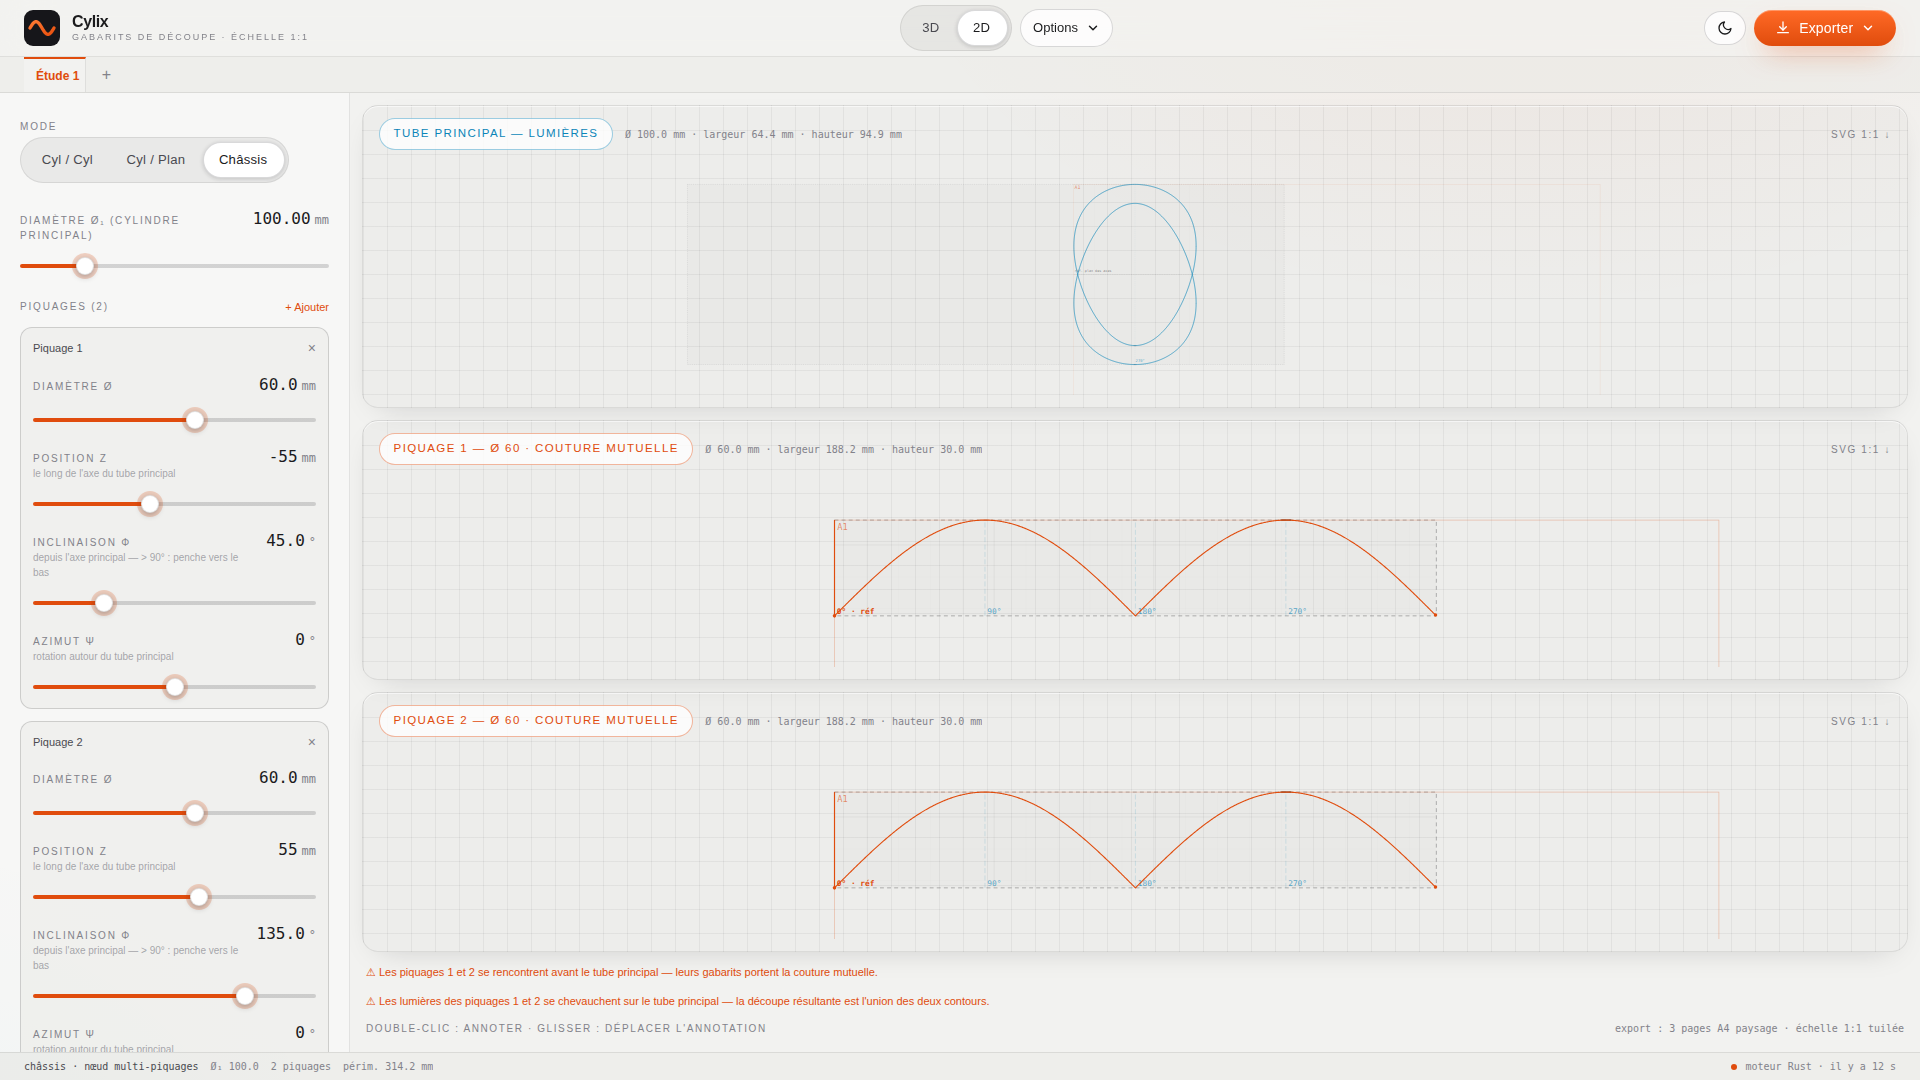
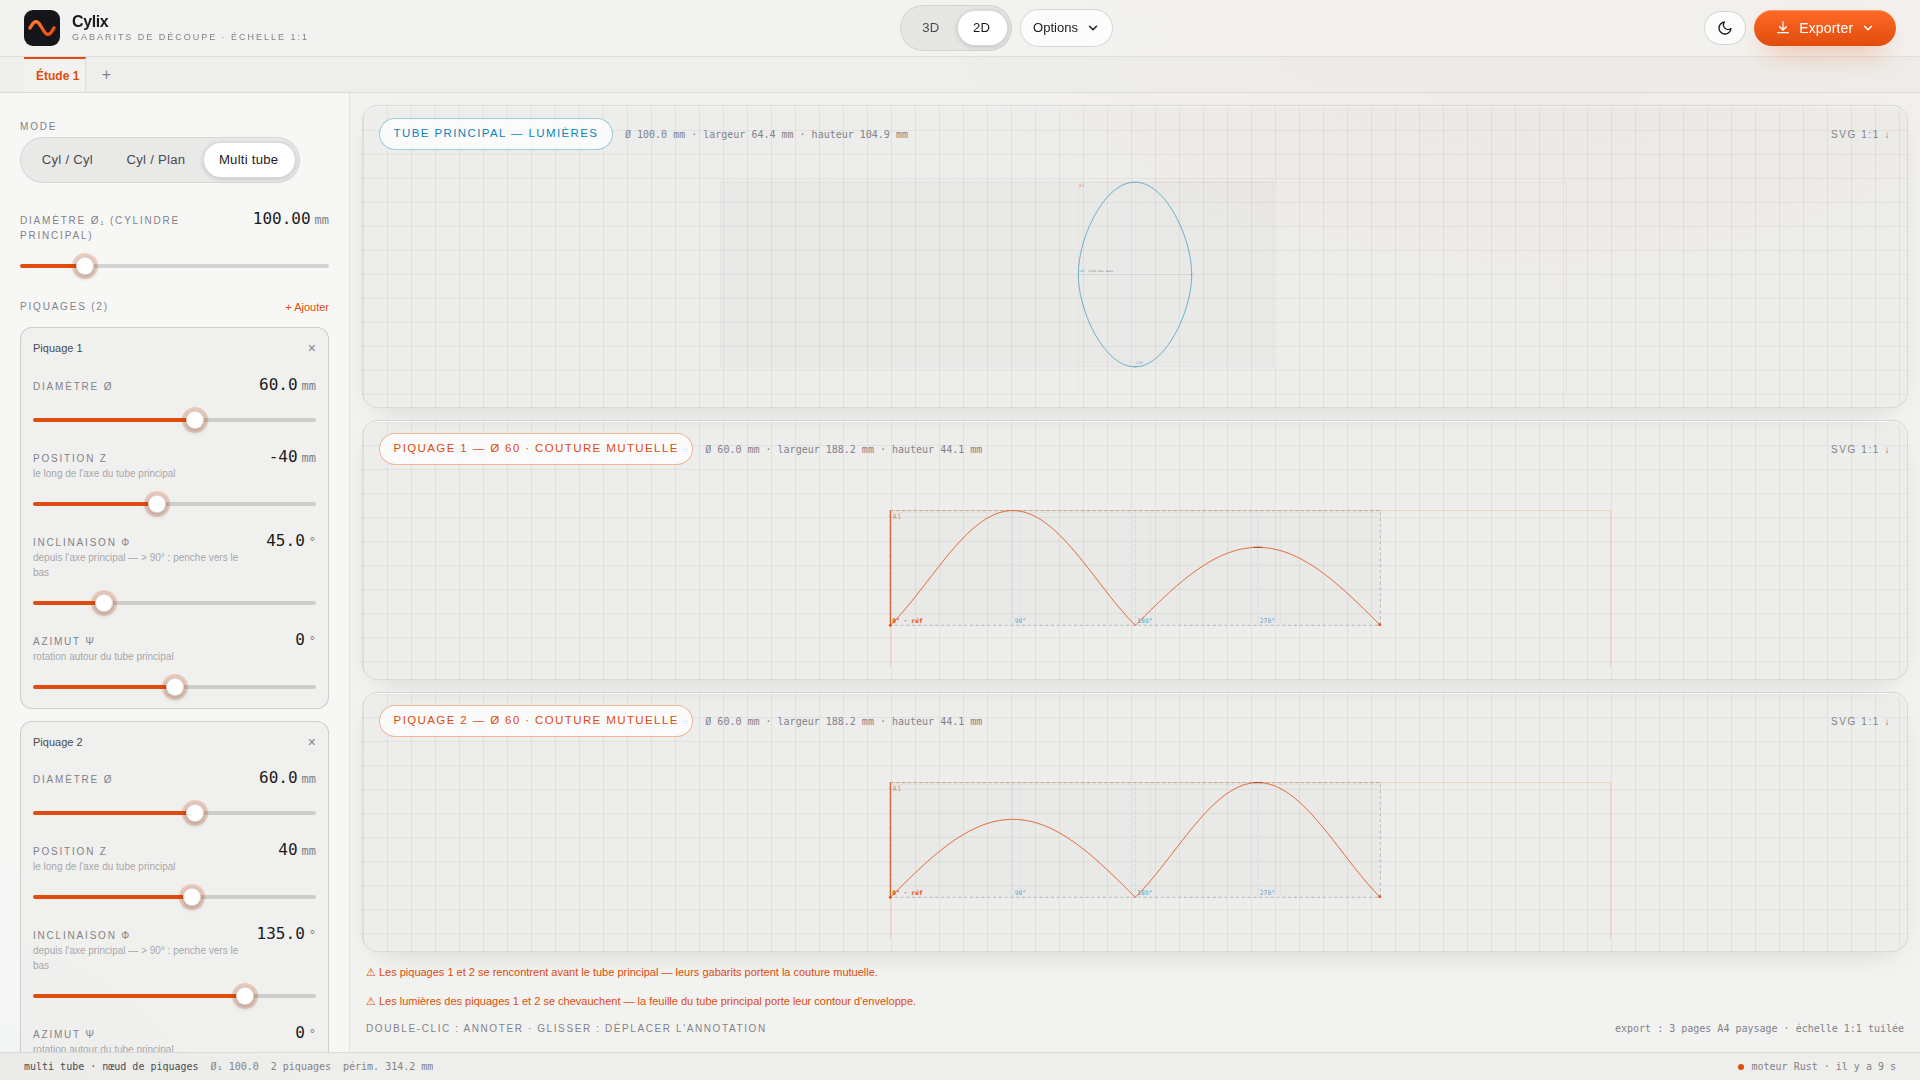
Multi tube : coupe sur la surface complète du voisin + nœud par défaut sain
Le vrai problème derrière « les tubes ne se touchent pas » :

1. La « vérification de matière » du commit précédent laissait un tube
   continuer AU-DELÀ de la surface d'un voisin déjà coupé : les parois se
   croisaient dans la cavité du joint et la rive atterrissait jusqu'à
   12 mm à l'intérieur de l'enveloppe (mesuré). Retour à la convention
   d'atelier : chaque tube est coupé sur la surface COMPLÈTE du cylindre
   voisin (les parois s'embrassent le long de la couture, ne se croisent
   jamais), avec un garde-fou de plancher axial contre les contacts
   fantômes de l'extension infinie du cylindre.
2. Le nœud par défaut (z = ±55) croisait les axes HORS du tube Ø100 :
   aucune génératrice n'atteignait la paroi, le V flottait devant le tube.
   Défaut ramené à z = ±40 (axes croisés dans le tube : les deux piquages
   se posent sur la paroi autour de leur couture mutuelle).

Nouveau test de régression « rim_on_main_lies_on_the_envelope_contour » :
la rive posée sur le tube principal doit suivre le contour d'enveloppe de
la feuille (< 0,05 mm, tolérance de quelques atterrissages dans le creux
déjà évidé par l'alésage du voisin). 29 tests, clippy 0.

Claude-Session: https://claude.ai/code/session_01DVYZEnZfpxvTCaQceh5G1Y

diff --git a/web/src/lib/store.svelte.ts b/web/src/lib/store.svelte.ts
@@ -55,11 +55,12 @@ export interface Study {
   editor: EditorState;
 }
 
-/** Default node: a V of two Ø 60 tubes meeting above the main tube. */
+/** Default node: a V of two Ø 60 tubes whose axes cross INSIDE the main
+ * tube — both land on the wall and kiss each other along a mutual seam. */
 export function defaultBranches(): BranchParam[] {
   return [
-    { d: 60, z: -55, angleDeg: 45, azimutDeg: 0 },
-    { d: 60, z: 55, angleDeg: 135, azimutDeg: 0 },
+    { d: 60, z: -40, angleDeg: 45, azimutDeg: 0 },
+    { d: 60, z: 40, angleDeg: 135, azimutDeg: 0 },
   ];
 }
 

diff --git a/src/multi.rs b/src/multi.rs
@@ -162,57 +162,28 @@ pub fn multi(input: &MultiInput) -> MultiPayload {
     let tau = std::f64::consts::TAU;
     let frames: Vec<BranchFrame> = input.branches.iter().map(BranchFrame::new).collect();
 
-    // --- Pass 1: first-contact cuts WITHOUT material verification. --------
-    // Gives each branch an approximate cut profile t⁰(θ) used below to
-    // decide whether a neighbour actually still has material at a contact.
-    let pass1: Vec<Vec<f64>> = frames
+    // Axial floor of each branch: the lowest wall-entry of its generatrices.
+    // Below its floor a tube certainly has no material (it would be beyond
+    // the far side of the main tube) — contacts there are phantoms of the
+    // infinite cylinder.  Above it, the workshop convention applies: each
+    // tube is cut on the FULL cylinder surface of its neighbours, so the
+    // walls kiss along the seam and never cross inside the joint.
+    let floors: Vec<f64> = frames
         .iter()
-        .enumerate()
-        .map(|(i, f)| {
+        .map(|f| {
             (0..n)
-                .map(|k| {
-                    let base = f.base(tau * (k as f64) / (n as f64));
-                    let Some(mut t) = entry_into_main(&base, &f.d, r1) else {
-                        return f64::NAN;
-                    };
-                    for (j, other) in frames.iter().enumerate() {
-                        if j == i {
-                            continue;
-                        }
-                        if let Some(t_j) = entry_into_branch(&base, &f.d, other) {
-                            if t_j > t {
-                                let p = base + t_j * f.d;
-                                if p.x * p.x + p.y * p.y >= r1 * r1 * (1.0 - 1e-9) {
-                                    t = t_j;
-                                }
-                            }
-                        }
-                    }
-                    t
+                .filter_map(|k| {
+                    entry_into_main(&f.base(tau * (k as f64) / (n as f64)), &f.d, r1)
                 })
-                .collect()
+                .fold(f64::INFINITY, f64::min)
         })
         .collect();
-
-    // A contact with branch `j` only counts if `j` still HAS material
-    // there: the contact's axial coordinate on `j` must lie beyond `j`'s
-    // own cut at that angle (otherwise we would cut against a phantom).
-    let material_exists = |j: usize, p: &Vector3<f64>| -> bool {
+    let above_floor = |j: usize, p: &Vector3<f64>| -> bool {
         let fr = &frames[j];
-        let rel = p - fr.c;
-        let s = rel.dot(&fr.d);
-        let theta_j = rel.dot(&fr.w).atan2(rel.dot(&fr.u)).rem_euclid(tau);
-        let pos = theta_j / (tau / n as f64);
-        let k0 = (pos.floor() as usize) % n;
-        let k1 = (k0 + 1) % n;
-        let (a, b) = (pass1[j][k0], pass1[j][k1]);
-        if !a.is_finite() || !b.is_finite() {
-            return true;
-        }
-        s >= a + (b - a) * (pos - pos.floor()) - 1e-6
+        (p - fr.c).dot(&fr.d) >= floors[j] - 1e-6
     };
 
-    // --- Pass 2: final cuts, neighbour contacts verified. -----------------
+    // --- First-contact cuts. ----------------------------------------------
     let mut branches = Vec::with_capacity(frames.len());
     let mut neighbor_pairs: Vec<(usize, usize)> = Vec::new();
 
@@ -234,11 +205,11 @@ pub fn multi(input: &MultiInput) -> MultiPayload {
                 }
                 if let Some(t_j) = entry_into_branch(&base, &f.d, other) {
                     if t_j > t_cut {
-                        // Only material outside the main tube can stop us —
-                        // and only where the neighbour actually reaches.
+                        // A neighbour contact only counts outside the main
+                        // tube and above the neighbour's axial floor.
                         let p = base + t_j * f.d;
                         if p.x * p.x + p.y * p.y >= r1 * r1 * (1.0 - 1e-9)
-                            && material_exists(j, &p)
+                            && above_floor(j, &p)
                         {
                             t_cut = t_j;
                             cut_by_neighbor = true;
@@ -686,6 +657,68 @@ mod tests {
         });
         assert_eq!(res.holes.len(), 2);
         assert!(res.warnings.is_empty());
+    }
+
+    /// Distance from a point to a closed polyline (segment-wise).
+    fn dist_to_polyline(u: f64, v: f64, pts: &[DevPoint]) -> f64 {
+        let n = pts.len();
+        let mut best = f64::INFINITY;
+        for i in 0..n {
+            let a = &pts[i];
+            let b = &pts[(i + 1) % n];
+            let (dx, dy) = (b.u - a.u, b.v - a.v);
+            let len2 = dx * dx + dy * dy;
+            let t = if len2 > 0.0 {
+                (((u - a.u) * dx + (v - a.v) * dy) / len2).clamp(0.0, 1.0)
+            } else {
+                0.0
+            };
+            let (px, py) = (a.u + t * dx, a.v + t * dy);
+            best = best.min((u - px).hypot(v - py));
+        }
+        best
+    }
+
+    #[test]
+    fn rim_on_main_lies_on_the_envelope_contour() {
+        // What the eye checks in the 3D view: where a branch lands on the
+        // main tube, its rim must sit ON the opening contour of the main
+        // sheet — no wall may land inside the cut-away region.
+        // Sane V-node: axes crossing INSIDE the main tube (|z| < r1/tanφ·…),
+        // so both tubes land on the wall around their mutual seam.
+        let phi = std::f64::consts::FRAC_PI_4;
+        let node = multi(&MultiInput {
+            r1: 50.0,
+            branches: vec![
+                MultiBranchSpec { r: 30.0, z: -40.0, phi, psi: 0.0 },
+                MultiBranchSpec { r: 30.0, z: 40.0, phi: std::f64::consts::PI - phi, psi: 0.0 },
+            ],
+            n_samples: 720,
+        });
+        assert_eq!(node.holes.len(), 1, "les deux lumières fusionnent en enveloppe");
+        let env = &node.holes[0].pts;
+        for br in &node.branches {
+            let mut checked = 0usize;
+            let mut far = 0usize;
+            for p in &br.curve3d {
+                let dist_main = (p.x * p.x + p.y * p.y).sqrt();
+                if (dist_main - 50.0).abs() > 1e-6 {
+                    continue; // seam point, off the wall
+                }
+                let u = 50.0 * p.y.atan2(p.x);
+                if dist_to_polyline(u, p.z, env) > 0.05 {
+                    far += 1;
+                }
+                checked += 1;
+            }
+            assert!(checked > 100, "trop peu de points de rive sur le tube ({checked})");
+            // Tolerate a handful of crotch landings inside the envelope
+            // (wall already cut away by the neighbour's bore right there).
+            assert!(
+                far * 20 < checked,
+                "{far}/{checked} points de rive hors du contour d'enveloppe"
+            );
+        }
     }
 
     #[test]
